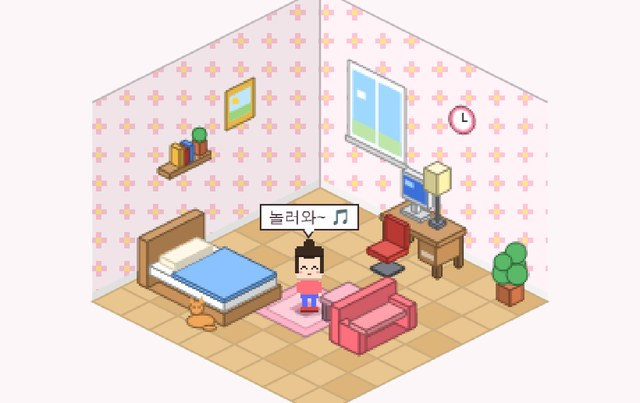
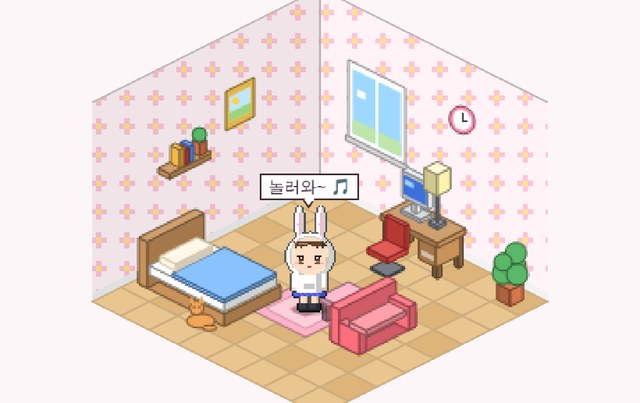
마이룸: detailed outlined pixel characters
- 34x62 chibi with auto outline, 2-3 tone shading, big highlighted eyes and eye colors
- 8 hairstyles, 8 tops incl. hoodie/sailor/coat/dress/hanbok, headwear: bunny/cat hood (colors), gat, horns, ribbon, glasses, headphones, crown, cap
- Idle breathing and blinking

Claude-Session: https://claude.ai/code/session_01EKLRBZGv2CKJG1R7ZhWQ4P

Changed region(s): [[0.4062, 0.4169, 0.5625, 0.804]]

diff --git a/public/games/my-room/index.html b/public/games/my-room/index.html
@@ -48,7 +48,7 @@ h4:first-child{margin-top:2px}
 .opt canvas{image-rendering:pixelated}
 .sw{width:30px;height:30px;border-radius:8px;border:2px solid #fff;box-shadow:0 0 0 1px var(--line)}
 .ch-prev{display:flex;justify-content:center;background:linear-gradient(#fff,#ffeef4);border-radius:12px;padding:6px;margin-bottom:6px}
-.ch-prev canvas{image-rendering:pixelated;width:120px;height:200px}
+.ch-prev canvas{image-rendering:pixelated;width:168px;height:272px}
 .msg{width:100%;height:38px;border-radius:10px;border:1px solid var(--line);padding:0 10px;font:inherit;font-size:14px}
 #toast{position:fixed;left:50%;top:14px;transform:translateX(-50%) translateY(-20px);background:var(--ink);color:#fff;padding:8px 14px;border-radius:12px;font-size:13px;font-weight:700;opacity:0;transition:.25s;pointer-events:none;z-index:50}
 #toast.on{opacity:1;transform:translateX(-50%)}
@@ -228,65 +228,157 @@ const FLOORS = [
 const SKINS = ['#ffe0c7', '#f5cba7', '#e0a979', '#b97a4f'];
 const HAIRC = ['#3b2a20', '#6b4226', '#c9853f', '#f2d16b', '#e0453f', '#ff8fb0', '#5d6bff', '#e9e9ef'];
 const CLOTH = ['#ff6f7d', '#ff9ebd', '#ffd36e', '#7ed99a', '#5d9bff', '#b98cff', '#ffffff', '#3b3b46'];
-const HAIRS = [['short', '짧은 머리', 'Short'], ['bob', '단발', 'Bob'], ['long', '긴 머리', 'Long'], ['pony', '똥머리', 'Bun'], ['twin', '양갈래', 'Pigtails'], ['spike', '삐죽 머리', 'Spiky']];
-const EYES = [['dot', '점 눈', 'Dots'], ['smile', '웃는 눈', 'Smile'], ['big', '큰 눈', 'Big'], ['wink', '윙크', 'Wink']];
-const TOPS = [['tee', '티셔츠', 'T-shirt'], ['stripe', '줄무늬 티', 'Striped'], ['hood', '후드', 'Hoodie'], ['dress', '원피스', 'Dress'], ['overall', '멜빵', 'Overalls']];
+const HAIRS = [['short', '짧은 머리', 'Short'], ['bob', '단발', 'Bob'], ['long', '긴 머리', 'Long'], ['wavy', '웨이브', 'Wavy'], ['tail', '포니테일', 'Ponytail'], ['pony', '똥머리', 'Bun'], ['twin', '양갈래', 'Pigtails'], ['spike', '삐죽 머리', 'Spiky']];
+const EYES = [['big', '큰 눈', 'Big'], ['smile', '웃는 눈', 'Smile'], ['sharp', '또렷한 눈', 'Sharp'], ['sleepy', '졸린 눈', 'Sleepy'], ['wink', '윙크', 'Wink']];
+const EYEC = ['#3b2a33', '#5a3a22', '#2f6fd8', '#2f9e6a', '#c0392b', '#8e44ad', '#e6a12e'];
+const TOPS = [['tee', '티셔츠', 'T-shirt'], ['hood', '후드', 'Hoodie'], ['sailor', '세일러', 'Sailor'], ['coat', '코트', 'Coat'], ['dress', '원피스', 'Dress'], ['hanbok', '한복', 'Hanbok'], ['stripe', '줄무늬 티', 'Striped'], ['overall', '멜빵', 'Overalls']];
 const BOTTOMS = [['pants', '긴 바지', 'Pants'], ['shorts', '반바지', 'Shorts'], ['skirt', '치마', 'Skirt']];
-const ACCS = [['none', '없음', 'None'], ['glasses', '안경', 'Glasses'], ['ribbon', '리본', 'Ribbon'], ['cap', '모자', 'Cap'], ['phones', '헤드폰', 'Headphones'], ['crown', '왕관', 'Crown'], ['blush', '볼터치', 'Blush']];
-const CHW = 24, CHH = 40;
+const ACCS = [['none', '없음', 'None'], ['bunny', '토끼 후드', 'Bunny hood'], ['cat', '고양이 후드', 'Cat hood'], ['gat', '갓', 'Gat hat'], ['horns', '뿔', 'Horns'], ['ribbon', '리본', 'Ribbon'], ['glasses', '안경', 'Glasses'], ['phones', '헤드폰', 'Headphones'], ['crown', '왕관', 'Crown'], ['cap', '모자', 'Cap']];
+const HOODC = ['#ffffff', '#ffc4d6', '#c9e6ff', '#3b3b46', '#f2d16b'];
+const CHW = 34, CHH = 62; // 캐릭터 도트 크기 (귀·모자 포함)
 
-function drawChar(g, ch, ox, oy) {
-  // ox,oy = 발 아래 가운데. 24×40 픽셀 그림
-  const x0 = ox - 12, y0 = oy - 40;
-  const R = (x, y, w, h, c) => { g.fillStyle = c; g.fillRect(x0 + x, y0 + y, w, h); };
-  const skin = ch.skin, hc = ch.hairC, sk2 = shade(skin, -0.2), hc2 = shade(hc, -0.3);
-  const tc = ch.topC, bc = ch.bottomC, OL = '#3b2a33';
-  // 그림자
-  g.fillStyle = 'rgba(0,0,0,.18)'; g.beginPath(); g.ellipse(ox, oy, 8, 2.5, 0, 0, Math.PI * 2); g.fill();
-  // 뒷머리 (긴 머리·양갈래)
-  if (ch.hair === 'long') { R(4, 10, 16, 16, hc); R(4, 25, 16, 1, hc2); }
-  if (ch.hair === 'twin') { R(1, 12, 4, 10, hc); R(19, 12, 4, 10, hc); R(2, 11, 2, 2, '#ff5c7a'); R(20, 11, 2, 2, '#ff5c7a'); }
-  // 다리·신발
-  const legC = ch.bottom === 'skirt' || ch.top === 'dress' ? skin : bc;
-  R(8, 31, 3, 6, ch.bottom === 'shorts' ? skin : legC); R(13, 31, 3, 6, ch.bottom === 'shorts' ? skin : legC);
-  if (ch.bottom === 'shorts' && ch.top !== 'dress') { R(8, 30, 3, 3, bc); R(13, 30, 3, 3, bc); }
-  R(7, 37, 5, 3, ch.shoes); R(12, 37, 5, 3, ch.shoes); R(7, 39, 10, 1, shade(ch.shoes, -0.4));
+/* 도트 캐릭터 — 32×60 격자에 층층이 칠한 뒤 자동 외곽선 + 명암 */
+function charPixels(ch, frame) {
+  const GW = 34, GH = 62, px = new Array(GW * GH).fill(null);
+  const set = (x, y, c) => { x = Math.round(x); y = Math.round(y); if (x >= 0 && y >= 0 && x < GW && y < GH && c) px[y * GW + x] = c; };
+  const get = (x, y) => (x >= 0 && y >= 0 && x < GW && y < GH ? px[y * GW + x] : null);
+  const rect = (x, y, w, h, c) => { for (let j = 0; j < h; j++) for (let i = 0; i < w; i++) set(x + i, y + j, typeof c === 'function' ? c(x + i, y + j) : c); };
+  const ell = (cx, cy, rx, ry, c, keep) => { for (let y = Math.floor(cy - ry); y <= cy + ry; y++) for (let x = Math.floor(cx - rx); x <= cx + rx; x++) { const d = ((x - cx) / rx) ** 2 + ((y - cy) / ry) ** 2; if (d <= 1 && (!keep || keep(x, y))) set(x, y, typeof c === 'function' ? c(x, y, d) : c); } };
+  const blink = frame === 2, bob = frame === 1 ? 1 : 0;
+  const Y = (y) => y + bob; // 숨쉬기: 상체만 1px
+  const skin = ch.skin, sS = shade(skin, -0.14), sH = shade(skin, 0.25);
+  const hc = ch.hairC, hS = shade(hc, -0.3), hL = shade(hc, 0.35);
+  const tc = ch.topC, tS = shade(tc, -0.22), tL = shade(tc, 0.3);
+  const bc = ch.bottomC, bS = shade(bc, -0.25);
+  const shoe = ch.shoes, shoeS = shade(shoe, -0.3);
+  const ec = ch.eyeC || '#3b2a33';
+  const hood = ch.hoodC || '#ffffff', hoS = shade(hood, -0.18);
+  const cx = 17, hy = 27; // 얼굴 중심
+  const long = ['long', 'wavy'].includes(ch.hair);
+  const dressLike = ch.top === 'dress' || ch.top === 'hanbok';
+
+  /* 1. 뒷머리 · 후드 뒷부분 */
+  if (ch.acc === 'bunny') { ell(11, Y(8), 2.6, 9, (x) => (x > 11 ? hoS : hood)); ell(23, Y(8), 2.6, 9, (x) => (x > 23 ? hoS : hood)); ell(11, Y(9), 1, 6, '#ffb3c8'); ell(23, Y(9), 1, 6, '#ffb3c8'); }
+  if (ch.acc === 'cat') for (const s of [-1, 1]) for (let j = 0; j < 8; j++) { const w = 1 + j, bx = s < 0 ? 8 : 26 - w; rect(s < 0 ? bx : bx + 0, Y(9 + j), w, 1, (x) => (j > 2 && Math.abs(x - (s < 0 ? bx + w / 2 : bx + w / 2)) < j / 3 ? '#ffb3c8' : s > 0 ? hoS : hood)); }
+  if (ch.acc === 'bunny' || ch.acc === 'cat') ell(cx, Y(hy), 13.5, 13, (x) => (x > cx + 6 ? hoS : hood));
+  else {
+    if (long) rect(5, Y(20), 25, ch.hair === 'wavy' ? 22 : 20, (x, y) => (ch.hair === 'wavy' && (y + x) % 5 === 0 ? hL : x > 24 ? hS : hc));
+    if (ch.hair === 'bob') rect(5, Y(20), 25, 13, (x) => (x > 24 ? hS : hc));
+    if (ch.hair === 'twin') { ell(4, Y(34), 3.5, 10, (x) => (x > 5 ? hS : hc)); ell(30, Y(34), 3.5, 10, (x) => (x > 31 ? hS : hc)); rect(3, Y(24), 3, 2, '#ff5c7a'); rect(29, Y(24), 3, 2, '#ff5c7a'); }
+    if (ch.hair === 'tail') { ell(30, Y(30), 3.5, 11, (x) => (x > 31 ? hS : hc)); rect(28, Y(19), 3, 2, '#ff5c7a'); }
+  }
+
+  /* 2. 몸 (다리 → 하의 → 상의 → 팔) */
+  const legC = ch.bottom === 'pants' && !dressLike ? bc : skin, legS = ch.bottom === 'pants' && !dressLike ? bS : sS;
+  rect(12, 48, 4, 8, (x) => (x === 15 ? legS : legC)); rect(18, 48, 4, 8, (x) => (x === 21 ? legS : legC));
+  rect(11, 55, 6, 3, (x) => (x > 14 ? shoeS : shoe)); rect(17, 55, 6, 3, (x) => (x > 20 ? shoeS : shoe));
+  rect(11, 58, 6, 1, shoeS); rect(17, 58, 6, 1, shoeS);
+  if (!dressLike) {
+    if (ch.bottom === 'shorts') { rect(11, Y(45), 12, 4, (x) => (x > 19 ? bS : bc)); rect(16, Y(47), 2, 2, null); }
+    else if (ch.bottom === 'skirt') { for (let j = 0; j < 6; j++) rect(10 - Math.floor(j / 2), Y(44 + j), 14 + Math.floor(j / 2) * 2, 1, (x) => (x > 20 + j / 2 ? bS : (x - j) % 3 === 0 ? bS : bc)); }
+    else rect(11, Y(44), 12, 4, (x) => (x > 19 ? bS : bc));
+  }
   // 몸통
-  R(7, 22, 10, 10, tc); R(7, 31, 10, 1, shade(tc, -0.3));
-  if (ch.top === 'stripe') for (let i = 0; i < 3; i++) R(7, 24 + i * 3, 10, 1, '#ffffff');
-  if (ch.top === 'hood') { R(9, 22, 6, 2, shade(tc, -0.2)); R(10, 27, 4, 2, shade(tc, -0.25)); }
-  if (ch.top === 'overall') { R(8, 26, 8, 6, bc); R(9, 22, 1, 4, bc); R(14, 22, 1, 4, bc); }
-  if (ch.top === 'dress') { R(6, 28, 12, 4, tc); R(5, 31, 14, 2, tc); R(5, 32, 14, 1, shade(tc, -0.3)); }
-  else if (ch.bottom === 'skirt') { R(6, 30, 12, 3, bc); R(6, 32, 12, 1, shade(bc, -0.3)); }
-  else if (ch.bottom === 'pants' && ch.top !== 'overall') R(7, 30, 10, 2, bc);
-  // 팔
-  R(5, 23, 2, 7, tc); R(17, 23, 2, 7, tc); R(5, 29, 2, 2, skin); R(17, 29, 2, 2, skin);
-  // 머리(얼굴)
-  R(5, 6, 14, 16, skin); R(4, 9, 1, 10, skin); R(19, 9, 1, 10, skin); R(5, 21, 14, 1, sk2);
-  // 앞머리
-  if (ch.hair === 'spike') { R(4, 4, 16, 6, hc); for (let i = 0; i < 4; i++) R(5 + i * 4, 1 + (i % 2), 3, 3, hc); R(4, 9, 2, 5, hc); R(18, 9, 2, 5, hc); }
-  else { R(4, 4, 16, 5, hc); R(5, 3, 14, 1, hc); R(4, 9, 2, ch.hair === 'short' ? 3 : 9, hc); R(18, 9, 2, ch.hair === 'short' ? 3 : 9, hc); R(9, 9, 6, 1, hc); R(4, 8, 16, 1, hc2); }
-  if (ch.hair === 'bob') { R(3, 9, 3, 11, hc); R(18, 9, 3, 11, hc); }
-  if (ch.hair === 'pony') { R(9, 0, 6, 4, hc); R(10, -1, 4, 1, hc); }
-  if (ch.hair === 'long') { R(3, 9, 3, 14, hc); R(18, 9, 3, 14, hc); }
-  // 눈·입
-  const ey = 14;
-  if (ch.eyes === 'dot') { R(8, ey, 2, 2, OL); R(14, ey, 2, 2, OL); }
-  else if (ch.eyes === 'smile') { R(7, ey + 1, 1, 1, OL); R(8, ey, 2, 1, OL); R(10, ey + 1, 1, 1, OL); R(13, ey + 1, 1, 1, OL); R(14, ey, 2, 1, OL); R(16, ey + 1, 1, 1, OL); }
-  else if (ch.eyes === 'big') { R(7, ey - 1, 3, 3, OL); R(14, ey - 1, 3, 3, OL); R(8, ey - 1, 1, 1, '#fff'); R(15, ey - 1, 1, 1, '#fff'); }
-  else { R(8, ey, 2, 2, OL); R(13, ey + 1, 1, 1, OL); R(14, ey, 2, 1, OL); R(16, ey + 1, 1, 1, OL); }
-  R(11, ey + 4, 2, 1, '#c0475f');
-  if (ch.acc === 'blush' || ch.eyes === 'smile') { R(6, ey + 3, 2, 1, '#ff9eb4'); R(16, ey + 3, 2, 1, '#ff9eb4'); }
-  // 액세서리
-  if (ch.acc === 'glasses') { R(6, ey - 1, 5, 4, OL); R(13, ey - 1, 5, 4, OL); R(7, ey, 3, 2, '#cfeaff'); R(14, ey, 3, 2, '#cfeaff'); R(11, ey, 2, 1, OL); }
-  if (ch.acc === 'ribbon') { R(15, 1, 4, 3, '#ff5c7a'); R(19, 0, 3, 5, '#ff5c7a'); R(12, 0, 3, 5, '#ff5c7a'); R(15, 2, 1, 1, '#c0304f'); }
-  if (ch.acc === 'cap') { R(4, 1, 16, 5, '#e0453f'); R(3, 5, 12, 2, '#b8322d'); R(10, 0, 4, 1, '#e0453f'); }
-  if (ch.acc === 'phones') { R(4, 3, 16, 2, '#3b3b46'); R(2, 10, 3, 6, '#3b3b46'); R(19, 10, 3, 6, '#3b3b46'); R(2, 11, 3, 4, '#ff5c7a'); R(19, 11, 3, 4, '#ff5c7a'); }
-  if (ch.acc === 'crown') { R(7, 0, 10, 3, '#ffd23d'); R(7, -2, 2, 2, '#ffd23d'); R(11, -3, 2, 3, '#ffd23d'); R(15, -2, 2, 2, '#ffd23d'); R(11, 1, 2, 1, '#e0453f'); }
+  const torsoH = ch.top === 'coat' ? 16 : 12;
+  rect(10, Y(36), 14, torsoH, (x) => (x > 20 ? tS : x < 12 ? tL : tc));
+  if (ch.top === 'stripe') for (let j = 0; j < 4; j++) rect(10, Y(38 + j * 3), 14, 1, '#ffffff');
+  if (ch.top === 'overall') { rect(12, Y(41), 10, 7, (x) => (x > 19 ? bS : bc)); rect(12, Y(36), 2, 5, bc); rect(20, Y(36), 2, 5, bc); set(13, Y(41), '#ffd23d'); set(20, Y(41), '#ffd23d'); }
+  if (ch.top === 'hood') { rect(11, Y(35), 12, 3, tS); rect(14, Y(43), 6, 3, tS); set(15, Y(38), '#ffffff'); set(15, Y(39), '#ffffff'); set(19, Y(38), '#ffffff'); set(19, Y(39), '#ffffff'); }
+  if (ch.top === 'sailor') { rect(10, Y(36), 14, 3, '#2f4fa8'); rect(13, Y(39), 8, 1, '#2f4fa8'); rect(15, Y(39), 4, 3, '#e0453f'); set(16, Y(42), '#e0453f'); set(17, Y(42), '#e0453f'); }
+  if (ch.top === 'coat') { for (let j = 0; j < 4; j++) set(17, Y(39 + j * 3), '#ffd23d'); rect(10, Y(44), 14, 1, shade(tc, -0.4)); rect(12, Y(36), 3, 3, tL); rect(19, Y(36), 3, 3, tL); }
+  if (ch.top === 'dress') { for (let j = 0; j < 10; j++) rect(10 - Math.floor(j / 2), Y(43 + j), 14 + Math.floor(j / 2) * 2, 1, (x) => (x > 20 + j / 2 ? tS : tc)); rect(6, Y(52), 22, 1, (x) => (x % 2 ? '#ffffff' : '#f3e7ee')); rect(14, Y(36), 6, 2, '#ffffff'); }
+  if (ch.top === 'hanbok') {
+    // 저고리(상의) + 고름 + 치마(하의 색)
+    rect(10, Y(36), 14, 7, (x) => (x > 20 ? tS : tc)); rect(13, Y(36), 2, 6, '#ffffff'); rect(16, Y(40), 2, 2, '#e0453f'); rect(17, Y(42), 1, 5, '#e0453f'); rect(15, Y(42), 1, 4, '#e0453f');
+    for (let j = 0; j < 14; j++) rect(9 - Math.floor(j / 3), Y(43 + j), 16 + Math.floor(j / 3) * 2, 1, (x) => (x > 21 + j / 3 ? bS : bc));
+    rect(9, Y(36), 2, 8, tc); rect(23, Y(36), 2, 8, tS);
+  }
+  // 팔과 손
+  const sleeve = ch.top === 'hanbok' ? tc : tc;
+  rect(7, Y(37), 3, 8, (x) => (x === 7 ? tL : sleeve)); rect(24, Y(37), 3, 8, (x) => (x === 26 ? tS : sleeve));
+  rect(7, Y(45), 3, 2, skin); rect(24, Y(45), 3, 2, sS);
+  rect(15, Y(34), 4, 2, sS); // 목
+
+  /* 3. 얼굴 */
+  ell(cx, Y(hy), 11, 10.5, (x, y) => (x > cx + 8 && y > Y(hy) ? sS : x < cx - 8 && y < Y(hy) ? sH : skin));
+  const ey = Y(hy + 1);
+  const eye = (x0, mirror) => {
+    if (blink || ch.eyes === 'sleepy') { rect(x0, ey + 2, 3, 1, '#3b2a33'); return; }
+    if (ch.eyes === 'smile') { set(x0, ey + 2, '#3b2a33'); rect(x0 + 1, ey + 1, 1, 1, '#3b2a33'); set(x0 + 2, ey + 2, '#3b2a33'); set(x0 + 1, ey + 1, '#3b2a33'); rect(x0, ey + 1, 3, 1, '#3b2a33'); return; }
+    if (ch.eyes === 'wink' && mirror) { set(x0, ey + 1, '#3b2a33'); set(x0 + 1, ey + 2, '#3b2a33'); set(x0 + 2, ey + 1, '#3b2a33'); return; }
+    const dark = shade(ec, -0.45), mid = ec, lite = shade(ec, 0.35);
+    // 속눈썹(바깥쪽으로 살짝 꼬리)
+    rect(x0, ey - 1, 3, 1, '#2a1d24'); set(mirror ? x0 + 3 : x0 - 1, ey - (ch.eyes === 'sharp' ? 2 : 1), '#2a1d24');
+    if (ch.eyes === 'sharp') { rect(x0, ey, 3, 1, dark); rect(x0, ey + 1, 3, 1, mid); set(x0 + 1, ey, '#ffffff'); return; }
+    rect(x0, ey, 3, 1, dark); rect(x0, ey + 1, 3, 1, mid); rect(x0, ey + 2, 3, 1, lite);
+    if (ch.eyes === 'big') rect(x0, ey + 3, 3, 1, shade(ec, 0.15));
+    set(mirror ? x0 + 1 : x0 + 1, ey, '#ffffff'); set(mirror ? x0 : x0 + 2, ey + 2, '#ffffffb0');
+  };
+  eye(11, false); eye(20, true);
+  set(16, Y(hy + 6), '#c0475f'); set(17, Y(hy + 6), '#c0475f');
+  rect(9, Y(hy + 4), 2, 1, '#ffaabf'); rect(23, Y(hy + 4), 2, 1, '#ffaabf');
+
+  /* 4. 앞머리 */
+  const capTop = Y(15);
+  if (ch.acc !== 'bunny' && ch.acc !== 'cat') {
+    ell(cx, Y(hy - 3), 12, 9.5, (x, y) => (y > Y(hy - 3) ? null : x > cx + 7 ? hS : hc), (x, y) => y <= Y(hy - 3));
+    // 앞머리 끝(들쭉날쭉)
+    for (let x = 6; x <= 28; x++) {
+      let len = ch.hair === 'spike' ? 2 + ((x * 7) % 3) : 3 + ((x * 5) % 3 === 0 ? 1 : 0);
+      if (x >= 15 && x <= 18 && ch.hair !== 'spike') len -= 1;
+      rect(x, Y(hy - 3), 1, len, x > cx + 7 ? hS : hc);
+      if (x % 4 === 1 && ch.hair !== 'spike') set(x, Y(hy - 3) + len - 2, hS); // 머리카락 결
+    }
+    // 옆머리
+    const side = ch.hair === 'short' || ch.hair === 'spike' ? 5 : long || ch.hair === 'bob' ? 14 : 8;
+    rect(5, Y(hy - 3), 3, side, (x) => (x === 5 ? hS : hc)); rect(27, Y(hy - 3), 3, side, (x) => (x === 29 ? hS : hc));
+    // 하이라이트
+    for (let x = 10; x <= 16; x++) set(x, Y(19 + Math.round(Math.abs(x - 13) / 3)), hL);
+    if (ch.hair === 'spike') for (let i = 0; i < 5; i++) { rect(7 + i * 5, Y(14 - (i % 2) * 2), 3, 4, hc); }
+    if (ch.hair === 'pony') { ell(cx, Y(13), 5, 4, (x) => (x > cx + 2 ? hS : hc)); set(cx - 2, Y(12), hL); }
+    if (ch.hair === 'tail') rect(25, Y(18), 4, 3, hc);
+  } else {
+    // 후드 안쪽 앞머리만
+    for (let x = 8; x <= 26; x++) { const len = 3 + ((x * 5) % 3 === 0 ? 1 : 0) - (x >= 15 && x <= 18 ? 1 : 0); rect(x, Y(hy - 8), 1, len, x > cx + 6 ? hS : hc); if (x % 4 === 1) set(x, Y(hy - 8) + len - 1, hS); } for (let x = 11; x <= 15; x++) set(x, Y(hy - 7), hL);
+    // 후드 테두리
+    for (let a = 0; a < Math.PI * 2; a += 0.05) { const x = cx + Math.cos(a) * 11.5, y = Y(hy) + Math.sin(a) * 11; if (Math.sin(a) < 0.55) set(x, y, hoS); }
+  }
+
+  /* 5. 액세서리 */
+  if (ch.acc === 'gat') {
+    // 갓: 반투명한 넓은 챙 + 높은 몸통 + 끈
+    ell(cx, Y(17), 17, 3.2, (x, y) => (y < Y(16) ? 'rgba(90,90,110,0.85)' : 'rgba(30,30,38,0.8)'));
+    rect(11, Y(5), 12, 12, (x) => (x > 19 ? '#1d1d24' : '#2b2b33')); ell(cx, Y(5), 6, 2, '#2b2b33');
+    rect(11, Y(14), 12, 2, '#5b3b8c');
+    for (let j = 0; j < 10; j++) { set(7 + Math.floor(j / 3), Y(19 + j), '#d9c27a'); set(27 - Math.floor(j / 3), Y(19 + j), '#d9c27a'); }
+  }
+  if (ch.acc === 'horns') for (const s of [-1, 1]) { rect(cx + s * 6 - (s > 0 ? 0 : 2), Y(14), 3, 3, '#3b2a33'); rect(cx + s * 7 - (s > 0 ? 0 : 1), Y(11), 2, 3, '#3b2a33'); set(cx + s * 8, Y(10), '#3b2a33'); }
+  if (ch.acc === 'ribbon') { rect(21, Y(14), 4, 4, '#ff5c7a'); rect(26, Y(13), 4, 6, '#ff5c7a'); rect(25, Y(15), 1, 2, '#c0304f'); rect(16, Y(13), 4, 6, '#ff5c7a'); }
+  if (ch.acc === 'glasses') { rect(10, ey - 1, 5, 5, null); for (const x0 of [10, 19]) { rect(x0, ey - 1, 5, 1, '#3b2a33'); rect(x0, ey + 3, 5, 1, '#3b2a33'); rect(x0, ey - 1, 1, 5, '#3b2a33'); rect(x0 + 4, ey - 1, 1, 5, '#3b2a33'); } rect(15, ey, 4, 1, '#3b2a33'); }
+  if (ch.acc === 'phones') { for (let a = Math.PI; a <= Math.PI * 2; a += 0.04) set(cx + Math.cos(a) * 13, Y(hy - 1) + Math.sin(a) * 13, '#3b3b46'); rect(3, Y(24), 4, 7, '#3b3b46'); rect(27, Y(24), 4, 7, '#3b3b46'); rect(4, Y(25), 2, 5, '#ff5c7a'); rect(28, Y(25), 2, 5, '#ff5c7a'); }
+  if (ch.acc === 'crown') { rect(10, Y(13), 14, 4, '#ffd23d'); for (const x of [10, 15, 20]) rect(x + 1, Y(10), 2, 3, '#ffd23d'); set(16, Y(14), '#e0453f'); set(12, Y(14), '#5d9bff'); set(21, Y(14), '#5d9bff'); }
+  if (ch.acc === 'cap') { ell(cx, Y(18), 12.5, 6, (x, y) => (y > Y(19) ? null : x > cx + 6 ? '#b8322d' : '#e0453f')); rect(3, Y(18), 16, 3, '#b8322d'); set(cx, Y(12), '#ffffff'); }
+
+  /* 6. 자동 외곽선: 빈칸 중 칠한 칸과 닿은 곳을 그 색보다 진하게 */
+  const out = px.slice();
+  for (let y = 0; y < GH; y++) for (let x = 0; x < GW; x++) {
+    if (get(x, y)) continue;
+    const n = [get(x - 1, y), get(x + 1, y), get(x, y - 1), get(x, y + 1)].filter(Boolean);
+    if (n.length) out[y * GW + x] = shade(n[0], -0.62);
+  }
+  return { out, GW, GH };
+}
+
+function drawChar(g, ch, ox, oy, frame = 0) {
+  // ox,oy = 발 아래 가운데
+  const { out, GW, GH } = charPixels(ch, frame);
+  g.fillStyle = 'rgba(0,0,0,.18)'; g.beginPath(); g.ellipse(ox, oy - 1, 10, 3, 0, 0, Math.PI * 2); g.fill();
+  const x0 = Math.round(ox - GW / 2), y0 = Math.round(oy - GH + 2);
+  for (let y = 0; y < GH; y++) for (let x = 0; x < GW; x++) { const c = out[y * GW + x]; if (c) { g.fillStyle = c; g.fillRect(x0 + x, y0 + y, 1, 1); } }
 }
 
 /* ───────── 상태 ───────── */
-const DEF_CHAR = { skin: SKINS[0], hair: 'pony', hairC: HAIRC[0], eyes: 'smile', top: 'tee', topC: CLOTH[0], bottom: 'pants', bottomC: '#5d6bff', shoes: '#e0453f', acc: 'none' };
+const DEF_CHAR = { skin: SKINS[0], hair: 'bob', hairC: HAIRC[1], eyes: 'big', eyeC: EYEC[1], top: 'hood', topC: '#ffffff', bottom: 'skirt', bottomC: '#5d6bff', shoes: '#3b3b46', acc: 'bunny', hoodC: '#ffffff' };
 function defaultState() {
   return {
     v: 1, wall: 'pink', floor: 'oak',
@@ -323,14 +415,17 @@ function render(it) {
   cache.set(key, r);
   return r;
 }
-let charCache = null;
+let charCache = null, charFrame = 0;
 function renderChar() {
-  if (charCache) return charCache;
-  const c = document.createElement('canvas'); c.width = CHW + 8; c.height = CHH + 10;
-  const g = c.getContext('2d'); drawChar(g, state.ch, 16, CHH + 6);
-  charCache = { c, o: [16, CHH + 6], data: g.getImageData(0, 0, c.width, c.height).data, w: c.width, h: c.height };
-  return charCache;
+  if (charCache && charCache[charFrame]) return charCache[charFrame];
+  if (!charCache) charCache = {};
+  const c = document.createElement('canvas'); c.width = CHW + 8; c.height = CHH + 8;
+  const g = c.getContext('2d'); drawChar(g, state.ch, (CHW + 8) / 2, CHH + 4, charFrame);
+  return (charCache[charFrame] = { c, o: [(CHW + 8) / 2, CHH + 4], data: g.getImageData(0, 0, c.width, c.height).data, w: c.width, h: c.height });
 }
+// 숨쉬기·눈 깜빡임
+let tick = 0;
+setInterval(() => { tick++; const f = tick % 12 === 0 ? 2 : tick % 2; if (f !== charFrame && !drag) { charFrame = f; redraw(); } }, 450);
 
 /* 화면상 위치 (원점 기준) */
 function screenPos(it) {
@@ -407,7 +502,7 @@ function drawAll(g, withSel = true) {
     if (isFlipped(it)) { g.translate(Math.round(sx), 0); g.scale(-1, 1); g.drawImage(r.c, -r.o[0], Math.round(sy) - r.o[1]); }
     else g.drawImage(r.c, Math.round(sx) - r.o[0], Math.round(sy) - r.o[1]);
     g.restore();
-    if (it === 'char' && state.msg) bubble(g, sx, sy - CHH - 6, state.msg);
+    if (it === 'char' && state.msg) bubble(g, sx, sy - CHH - 1, state.msg);
   }
   if (withSel && sel) {
     const r = sel === 'char' ? renderChar() : render(sel);
@@ -572,8 +667,8 @@ function renderPanel() {
     b.appendChild(clr);
   } else {
     const prev = document.createElement('div'); prev.className = 'ch-prev';
-    const pc = document.createElement('canvas'); pc.width = 36; pc.height = 60;
-    const pg = pc.getContext('2d'); drawChar(pg, state.ch, 18, 54); prev.appendChild(pc); b.appendChild(prev);
+    const pc = document.createElement('canvas'); pc.width = CHW + 8; pc.height = CHH + 6;
+    const pg = pc.getContext('2d'); drawChar(pg, state.ch, (CHW + 8) / 2, CHH + 4); prev.appendChild(pc); b.appendChild(prev);
     const sec = (title, el) => { b.appendChild(h4(title)); b.appendChild(el); };
     const setCh = (k, v) => { state.ch[k] = v; charCache = null; changed(); renderPanel(); };
     sec(L_('한마디', 'Message'), msgInput());
@@ -581,12 +676,14 @@ function renderPanel() {
     sec(L_('머리 모양', 'Hair'), txtRow(HAIRS, state.ch.hair, (v) => setCh('hair', v)));
     sec(L_('머리 색', 'Hair color'), swRow(HAIRC, state.ch.hairC, (v) => setCh('hairC', v)));
     sec(L_('눈', 'Eyes'), txtRow(EYES, state.ch.eyes, (v) => setCh('eyes', v)));
+    sec(L_('눈동자 색', 'Eye color'), swRow(EYEC, state.ch.eyeC, (v) => setCh('eyeC', v)));
     sec(L_('상의', 'Top'), txtRow(TOPS, state.ch.top, (v) => setCh('top', v)));
     sec(L_('상의 색', 'Top color'), swRow(CLOTH, state.ch.topC, (v) => setCh('topC', v)));
     sec(L_('하의', 'Bottom'), txtRow(BOTTOMS, state.ch.bottom, (v) => setCh('bottom', v)));
     sec(L_('하의 색', 'Bottom color'), swRow(CLOTH.concat(['#5d6bff']), state.ch.bottomC, (v) => setCh('bottomC', v)));
     sec(L_('신발 색', 'Shoes'), swRow(CLOTH, state.ch.shoes, (v) => setCh('shoes', v)));
-    sec(L_('액세서리', 'Accessory'), txtRow(ACCS, state.ch.acc, (v) => setCh('acc', v)));
+    sec(L_('머리 장식', 'Headwear'), txtRow(ACCS, state.ch.acc, (v) => setCh('acc', v)));
+    if (state.ch.acc === 'bunny' || state.ch.acc === 'cat') sec(L_('후드 색', 'Hood color'), swRow(HOODC, state.ch.hoodC, (v) => setCh('hoodC', v)));
   }
 }
 function confirmClear() { try { return window.confirm(L_('가구를 모두 치울까요?', 'Remove all furniture?')); } catch (e) { return true; } }
